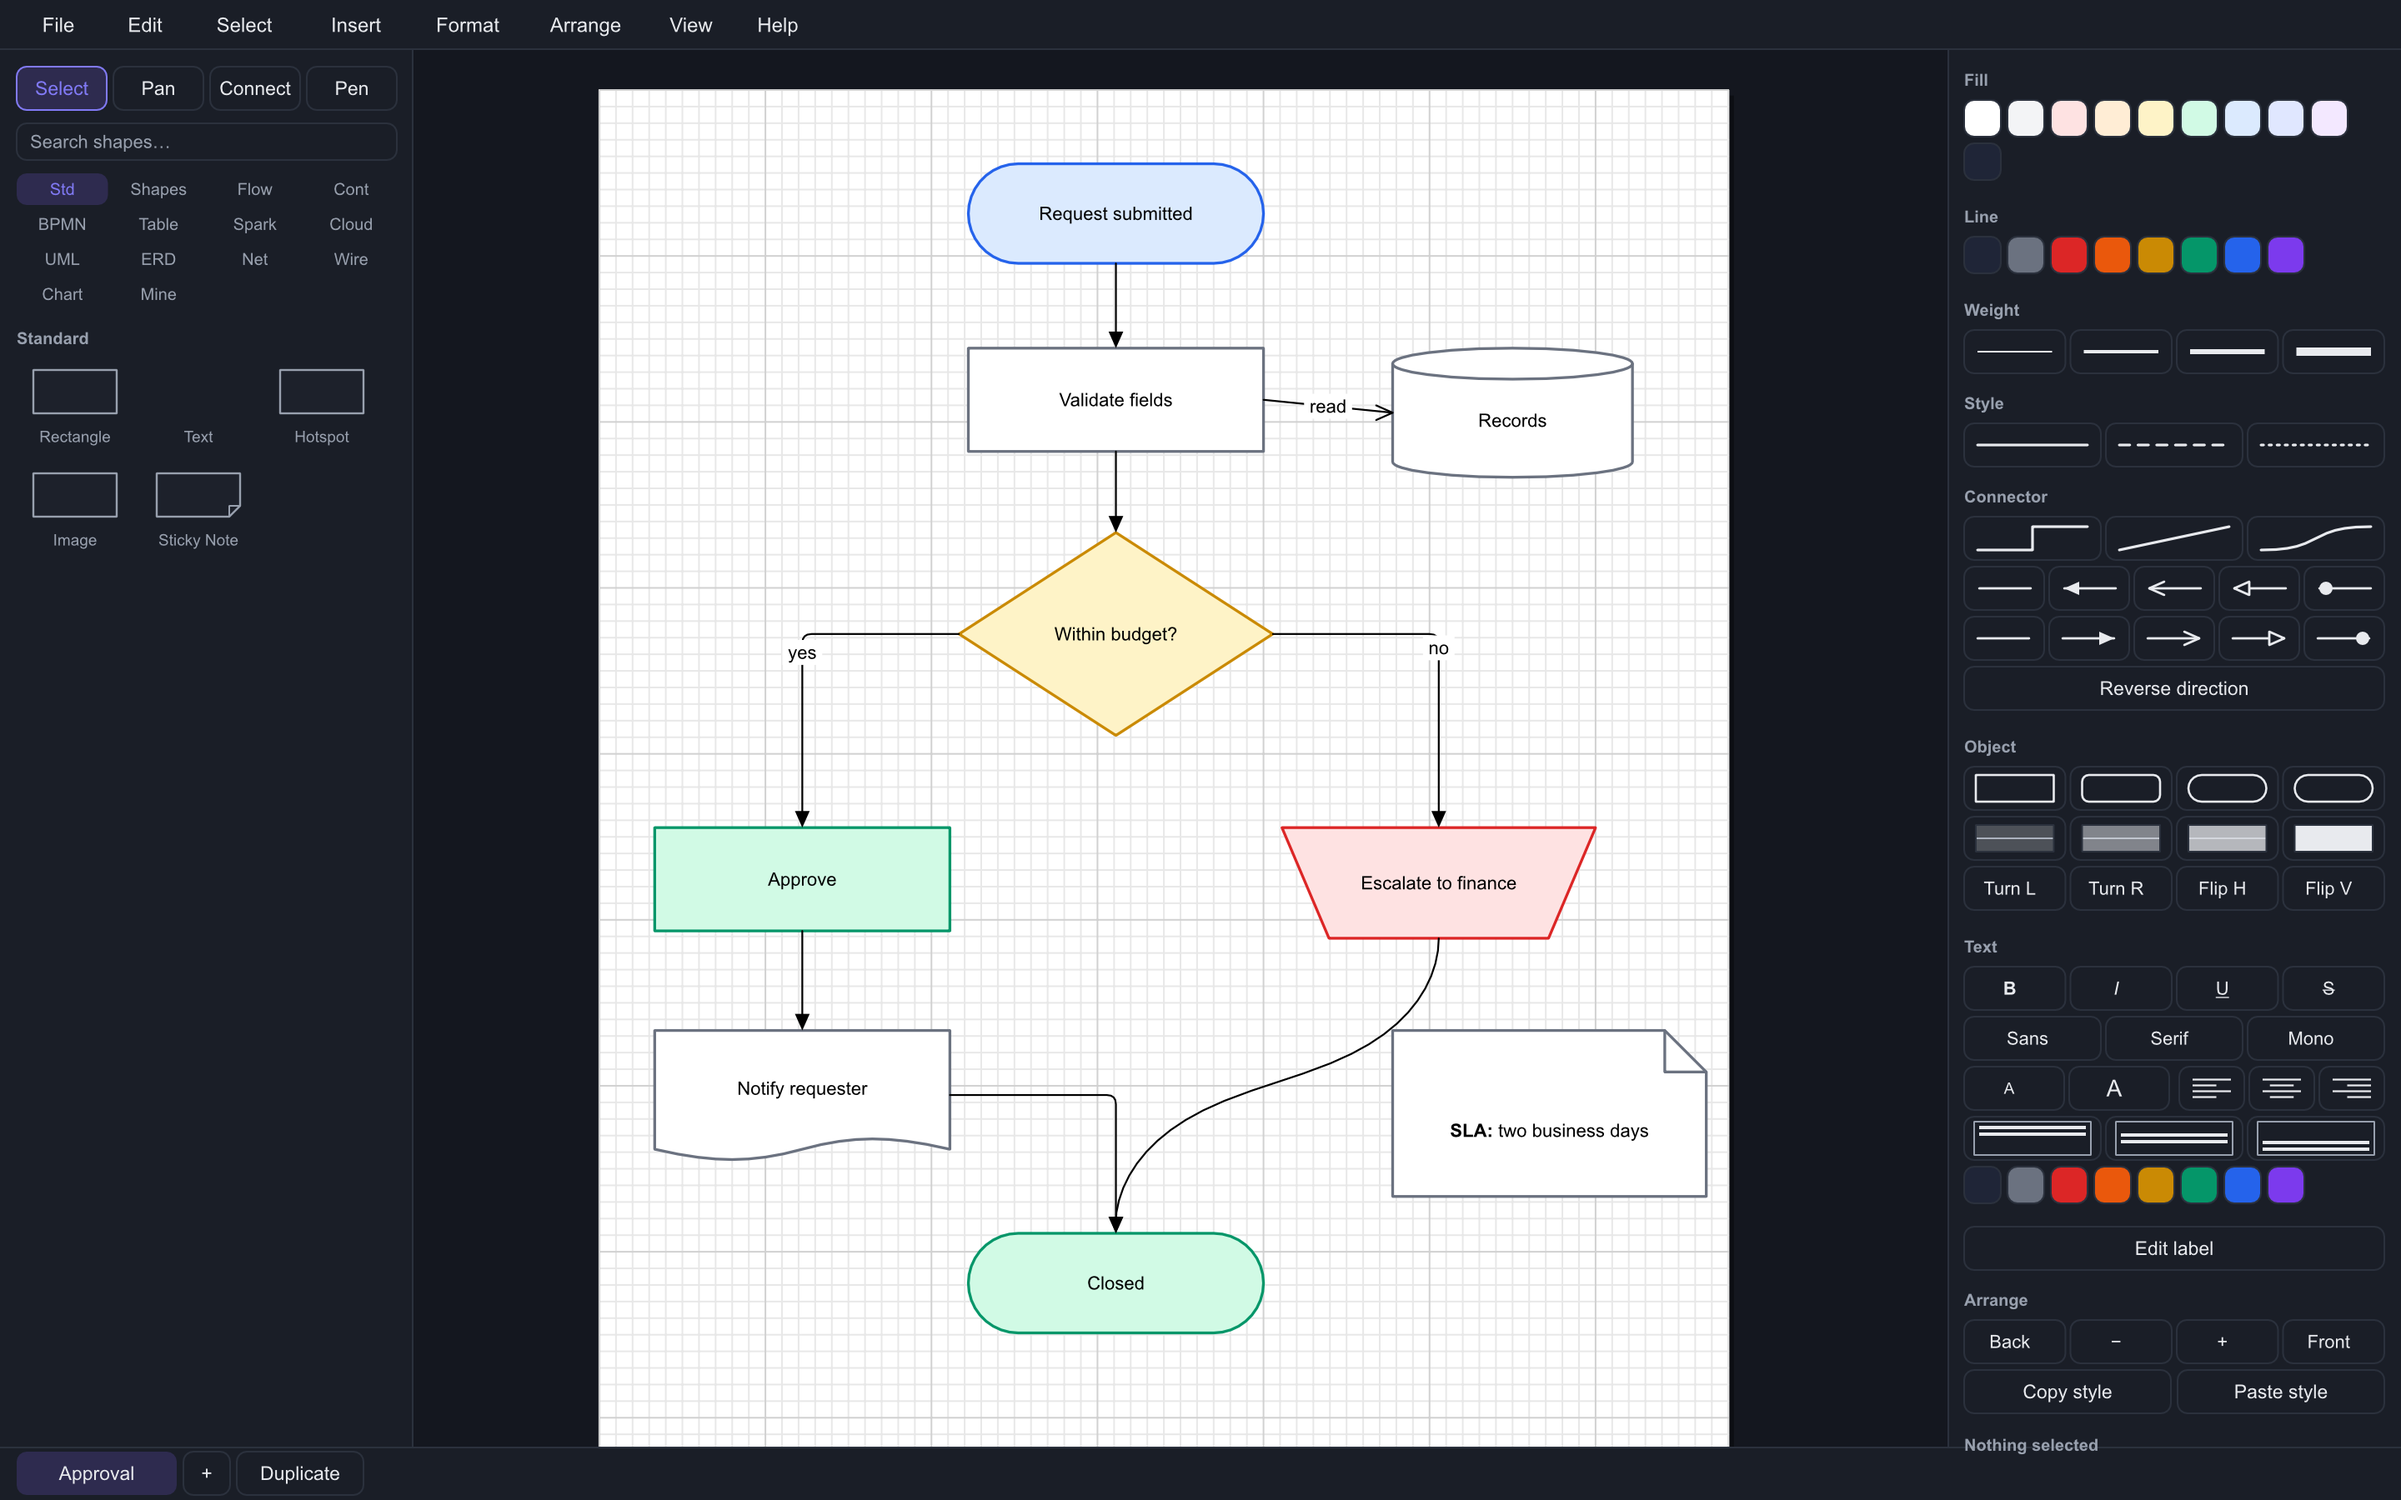
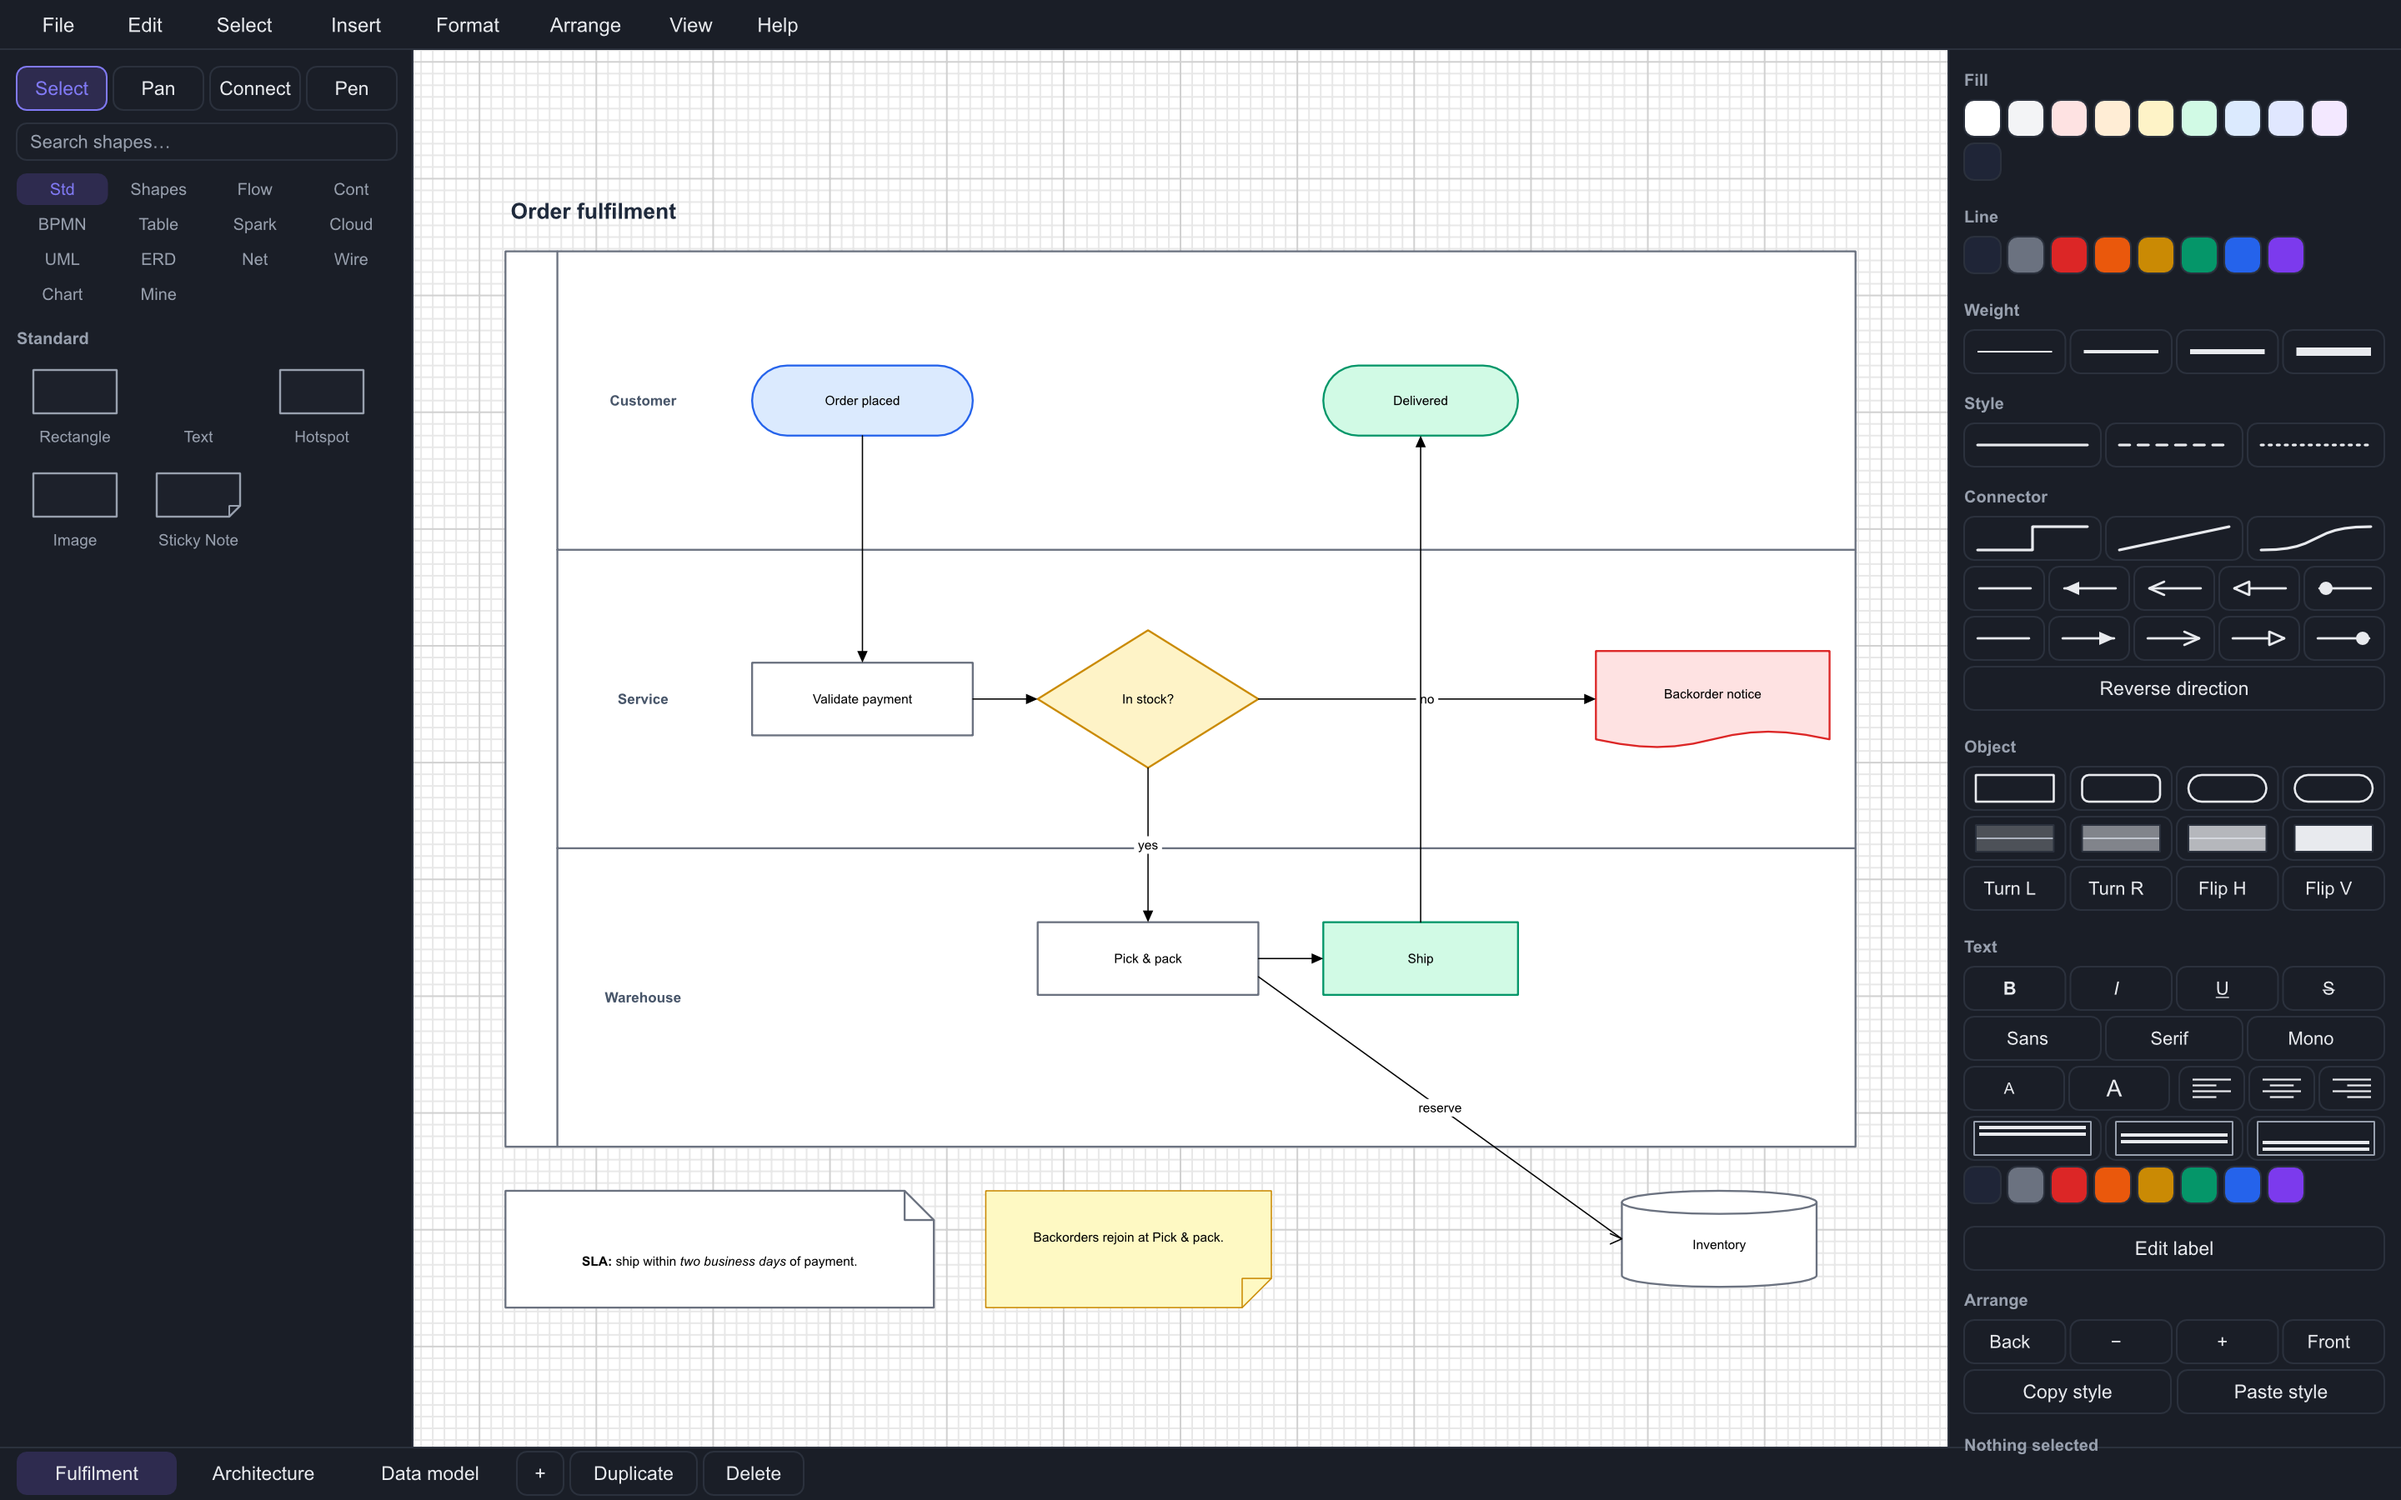
Give the README a hero worth looking at, and a sample behind it
The reshoot a commit ago retook the hero from the same six-box approval
flow it had always used, so the page looked unchanged even though the
editor around it had grown a tool, a search box, six library tabs and a
font row. Technically current, practically invisible. The point of a
hero is to show what the program can do, and a flowchart that fits in a
corner was never going to.

`samples/fulfilment.lucid` replaces it: a cross-functional chart in a
three-lane swimlane container, eight flowchart shapes, connectors in all
three routings with branch labels, a data store outside the pool, a note
carrying styled text, and a sticky. It is three pages, so the tab bar
along the bottom reads like a document someone is actually keeping
rather than a scratch file. Published shape and line types only, the
same constraint `templates.rs` holds to.

Laying it out taught the router's manners. The first attempt put Pick &
pack to the left of the decision that branches into it, so "yes" went
backwards and down and looped under the pool to get there; the fix is
for the flow to only ever move right or down, which is what a
cross-functional chart does anyway. The return leg from Ship up to
Delivered then climbed over the top of the pool and came back, because
two smart ends 15pt out of alignment leave the router free to pick a far
side and walk around to it. Both ends are now pinned to ports, and the
shapes share a column, so it is the straight line it looks like it
[…]

diff --git a/README.md b/README.md
@@ -8,7 +8,7 @@ A desktop diagramming editor that reads and writes the Lucid Standard Import
 format. Flowcharts, org charts, network diagrams, and the rest — on macOS,
 Windows, and Linux, with no subscription and no account.
 
-![DiagramCraft editing a flowchart](docs/images/editor.png)
+![DiagramCraft editing a cross-functional flowchart](docs/images/editor.png)
 
 ## Why
 
@@ -178,10 +178,11 @@ the flags that put the editor into the state worth looking at — `--dark`,
 which is the point: the pictures cannot drift from the program, because the
 program draws them.
 
-Try the sample:
+Try the samples:
 
 ```sh
-cargo run --release -- samples/approval.lucid
+cargo run --release -- samples/fulfilment.lucid   # the one at the top
+cargo run --release -- samples/approval.lucid     # a single-page flowchart
 ```
 
 ### Interface
